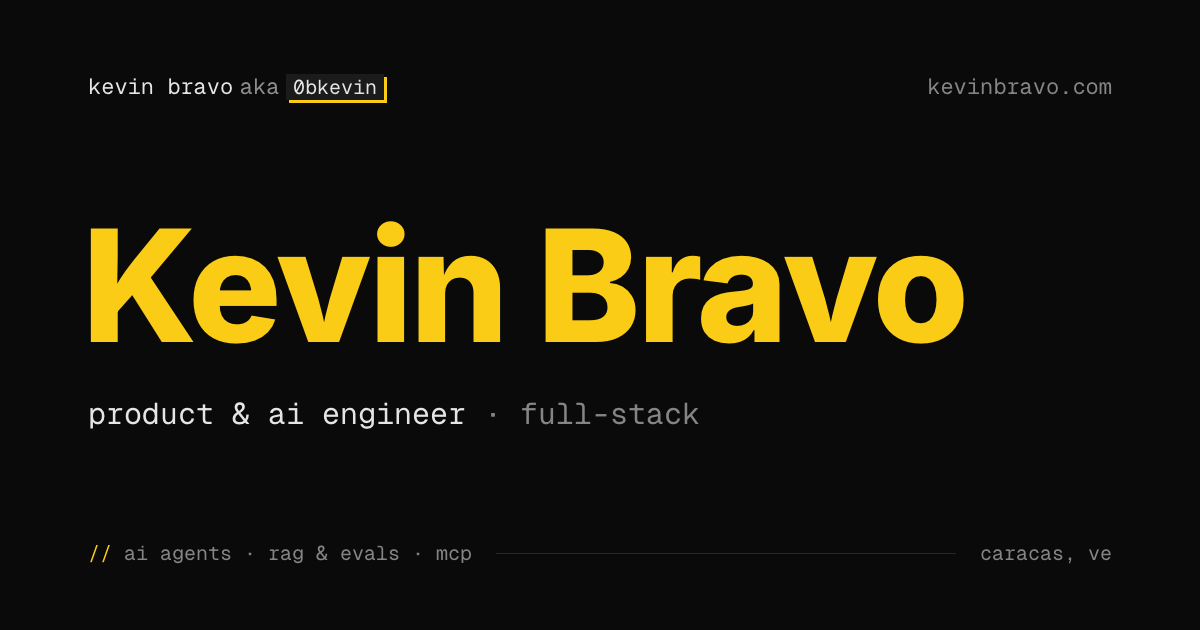
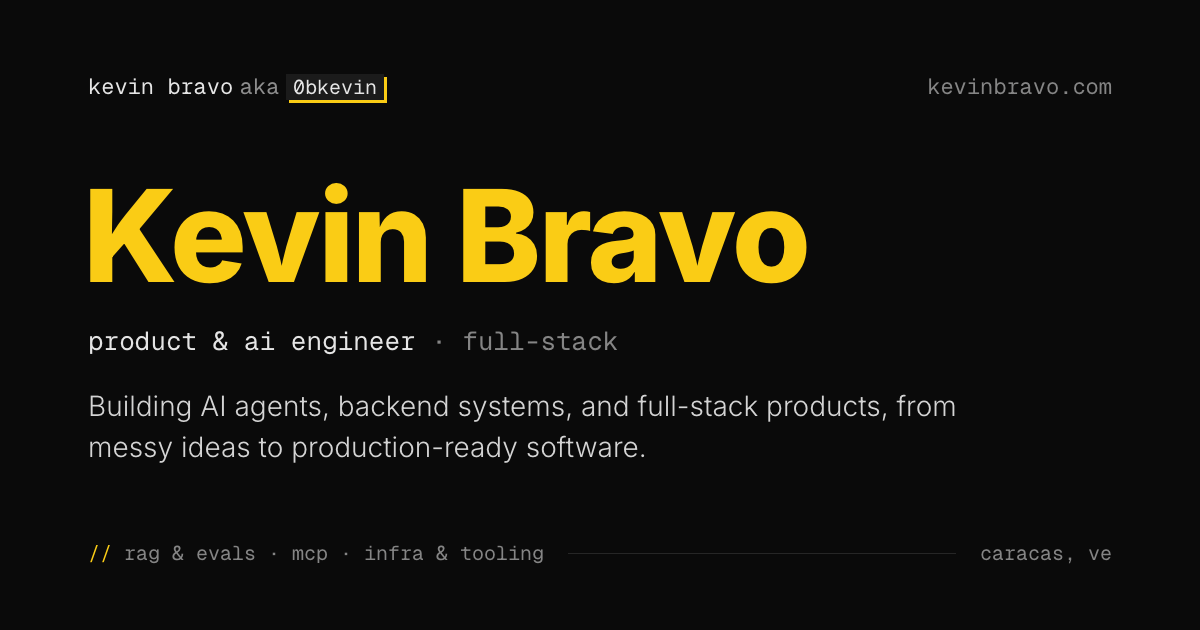
Add a what-I-build description to the OG image
Bring back the old card's description, led by AI agents, and swap the bottom
row's AI agents tag for infra & tooling so the two don't repeat each other.

Changed region(s): [[0.0617, 0.2714, 0.8017, 0.573], [0.0617, 0.6333, 0.8017, 0.7238], [0.0925, 0.8746, 0.4625, 0.9048]]

diff --git a/scripts/og/default.html b/scripts/og/default.html
@@ -54,14 +54,22 @@
       /* Hero: same hierarchy as the homepage. */
       .hero { margin-top: auto; margin-bottom: auto; }
       h1 {
-        font-size: 156px;
+        font-size: 128px;
         font-weight: 800;
         line-height: 1;
         letter-spacing: -0.02em;
         color: #facc15;
-        margin-left: -6px;
+        margin-left: -5px;
       }
-      .role { margin-top: 30px; font-size: 30px; }
+      .role { margin-top: 24px; font-size: 26px; }
+      .summary {
+        margin-top: 28px;
+        max-width: 880px;
+        font-size: 28px;
+        font-weight: 300;
+        line-height: 1.45;
+        color: #d4d4d4;
+      }
       .role .primary { color: #e5e5e5; }
       .role .secondary { color: #858585; }
 
@@ -88,10 +96,14 @@
       <p class="role mono">
         <span class="primary">product &amp; ai engineer</span><span class="secondary"> · full-stack</span>
       </p>
+      <p class="summary">
+        Building AI agents, backend systems, and full-stack products, from messy ideas to production-ready
+        software.
+      </p>
     </div>
 
     <div class="bottom mono">
-      <span><span class="num">//</span> ai agents · rag &amp; evals · mcp</span>
+      <span><span class="num">//</span> rag &amp; evals · mcp · infra &amp; tooling</span>
       <span class="rule"></span>
       <span>caracas, ve</span>
     </div>
